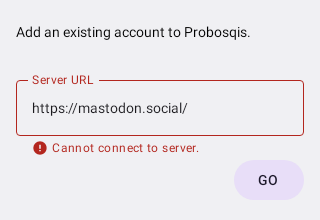
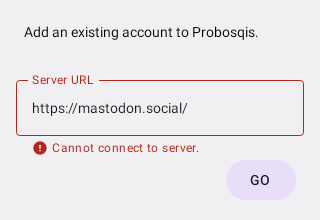
余白を再調整

Changed region(s): [[0.0312, 0.1091, 0.8125, 0.1909], [0.7812, 0.7909, 0.875, 0.8455]]

diff --git a/modules/mastodon/ui/src/commonMain/kotlin/com/wcaokaze/probosqis/mastodon/ui/auth/urlinput/UrlInputPage.kt b/modules/mastodon/ui/src/commonMain/kotlin/com/wcaokaze/probosqis/mastodon/ui/auth/urlinput/UrlInputPage.kt
@@ -157,7 +157,7 @@ val urlInputPageComposable = PPageComposable<UrlInputPage, UrlInputPageState>(
       ) {
          Text(
             Strings.Mastodon.authUrlInput.description,
-            modifier = Modifier.padding(vertical = 8.dp)
+            modifier = Modifier.padding(8.dp)
          )
 
          Spacer(modifier = Modifier.height(24.dp))
@@ -206,7 +206,9 @@ val urlInputPageComposable = PPageComposable<UrlInputPage, UrlInputPageState>(
 
          Row(
             verticalAlignment = Alignment.CenterVertically,
-            modifier = Modifier.align(Alignment.End)
+            modifier = Modifier
+               .align(Alignment.End)
+               .padding(horizontal = 8.dp)
          ) {
             if (state.isLoading) {
                CircularProgressIndicator(
